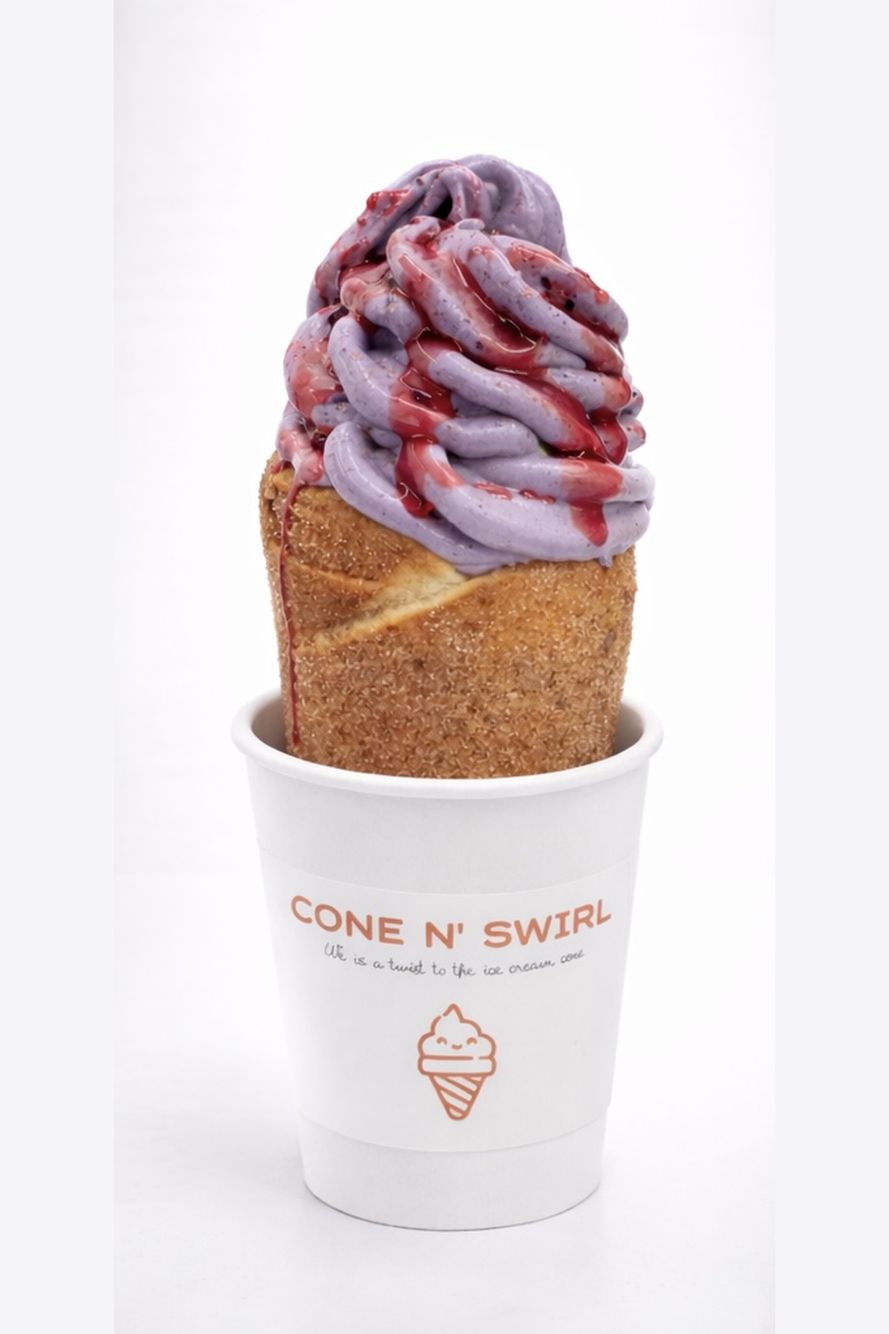
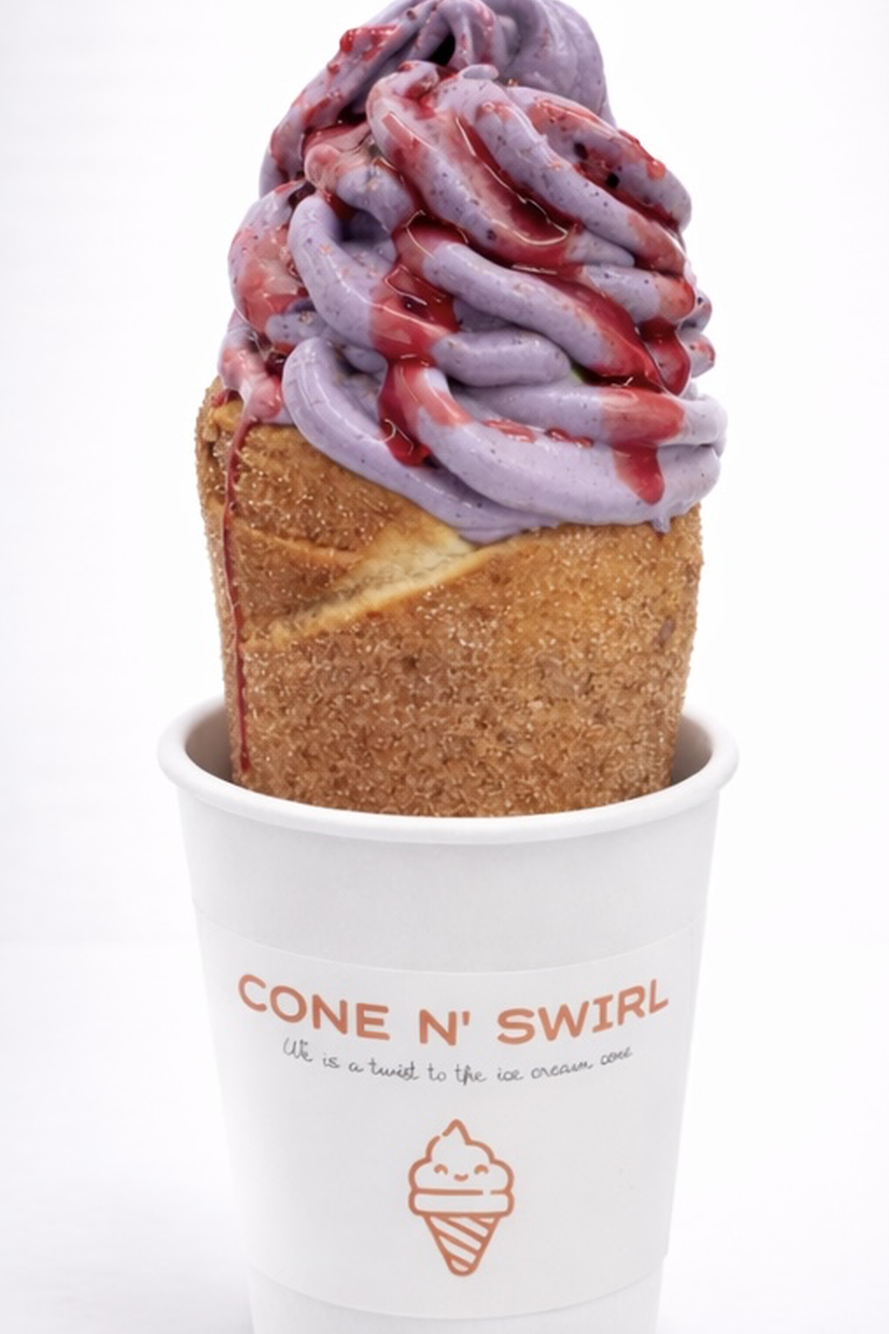
Gallery: purpletop cover-crop to match visual scale; cache-bust URL
Made-with: Cursor

Changed region(s): [[0.1875, 0.0, 0.8438, 0.9688], [0.3438, 0.875, 0.375, 0.9062]]

diff --git a/index.html b/index.html
@@ -1243,7 +1243,7 @@ body {
 }
 </style></head>
   <body>
-    <div id="root"><div class="min-h-screen bg-surface"><header class="sticky top-0 z-50 border-b border-ink/10 bg-surface"><div class="mx-auto flex max-w-5xl items-center justify-between gap-4 px-5 py-4 lg:px-8"><a href="#" class="flex shrink-0 items-center focus:outline-none focus-visible:ring-2 focus-visible:ring-primary focus-visible:ring-offset-2" aria-label="CONE N&#39; SWIRL — Home"><img alt="CONE N&#39; SWIRL" class="h-10 w-auto max-w-[min(100%,200px)] object-contain object-left sm:h-12 sm:max-w-[240px]" src="./images/SwirlyOrange.jpeg"></a><nav class="hidden items-center gap-6 lg:flex" aria-label="Main"><a href="#about" class="text-sm font-semibold uppercase tracking-wide text-ink/80 transition-colors hover:text-primary">About</a><a href="#menu" class="text-sm font-semibold uppercase tracking-wide text-ink/80 transition-colors hover:text-primary">Menu</a><a href="#schedule" class="text-sm font-semibold uppercase tracking-wide text-ink/80 transition-colors hover:text-primary">Find us</a><a href="#gallery" class="text-sm font-semibold uppercase tracking-wide text-ink/80 transition-colors hover:text-primary">Gallery</a><a href="#contact" class="text-sm font-semibold uppercase tracking-wide text-ink/80 transition-colors hover:text-primary">Contact</a></nav><div class="hidden items-center gap-3 lg:flex"><a href="https://www.instagram.com/conenswirl/" target="_blank" rel="noopener noreferrer" class="inline-flex text-primary transition hover:text-ink" aria-label="CONE N&#39; SWIRL on Instagram (@conenswirl)"><svg class="h-6 w-6" viewBox="0 0 24 24" aria-hidden="true" fill="currentColor"><path d="M12 2.163c3.204 0 3.584.012 4.85.07 1.252.058 2.083.242 2.633.516a5.275 5.275 0 011.92 1.247 5.25 5.25 0 011.247 1.92c.274.55.458 1.38.516 2.633.058 1.266.07 1.646.07 4.85s-.012 3.584-.07 4.85c-.058 1.252-.242 2.083-.516 2.633a5.275 5.275 0 01-1.247 1.92 5.25 5.25 0 01-1.92 1.247c-.55.274-1.38.458-2.633.516-1.266.058-1.646.07-4.85.07s-3.584-.012-4.85-.07c-1.252-.058-2.083-.242-2.633-.516a5.275 5.275 0 01-1.92-1.247 5.25 5.25 0 01-1.247-1.92c-.274-.55-.458-1.38-.516-2.633-.058-1.266-.07-1.646-.07-4.85s.012-3.584.07-4.85c.058-1.252.242-2.083.516-2.633a5.275 5.275 0 011.247-1.92 5.25 5.25 0 011.92-1.247c.55-.274 1.38-.458 2.633-.516 1.266-.058 1.646-.07 4.85-.07zM12 5.838a6.162 6.162 0 100 12.324A6.162 6.162 0 0012 5.838zm0 10a4 4 0 110-8 4 4 0 010 8zm6.406-11.845a1.44 1.44 0 100 2.881 1.44 1.44 0 000-2.881z"></path></svg></a><a href="#contact" class="border-2 border-primary bg-primary px-4 py-2 text-xs font-bold uppercase tracking-widest text-surface transition hover:bg-ink hover:border-ink">Book us</a></div><button type="button" class="inline-flex h-10 w-10 items-center justify-center border border-ink/20 lg:hidden" aria-expanded="false" aria-label="Toggle menu"><span class="sr-only">Menu</span><svg class="h-5 w-5 text-ink" fill="none" viewBox="0 0 24 24" stroke="currentColor" aria-hidden="true"><path stroke-linecap="round" stroke-linejoin="round" stroke-width="2" d="M4 6h16M4 12h16M4 18h16"></path></svg></button></div></header><main><section class="hero-with-background px-5 py-16 text-center sm:py-20 lg:py-28"><div class="hero-content mx-auto max-w-3xl"><img alt="" class="mx-auto h-20 w-auto max-w-full object-contain sm:h-24 md:h-28" src="./images/SwirlyWhite.png"><h1 class="mt-8 font-display text-4xl font-bold uppercase leading-tight tracking-tight text-surface sm:text-5xl lg:text-6xl">We put a twist to the ice cream cone</h1><p class="mx-auto mt-6 max-w-xl text-base leading-relaxed text-surface sm:text-lg">Soft serve, house-made toppings, and cones with personality. Find us curbside—we're here for the sweet stuff.</p><div class="mt-10 flex flex-wrap justify-center gap-3"><a href="#menu" class="inline-flex border-2 border-surface bg-surface px-8 py-3 text-xs font-bold uppercase tracking-widest text-ink transition">See the menu</a><a href="#contact" class="inline-flex border-2 border-surface bg-transparent px-8 py-3 text-xs font-bold uppercase tracking-widest text-surface transition">Catering &amp; events</a></div><p class="mt-8 text-sm font-semibold text-surface"><a href="https://www.instagram.com/conenswirl/" target="_blank" rel="noopener noreferrer" class="font-semibold text-surface underline underline-offset-4 hover:underline">Follow @conenswirl on Instagram</a> for where we're parked and what's on special.</p></div></section><section id="about" class="scroll-mt-20 border-b border-ink/10 bg-surface px-5 py-16 sm:py-24 lg:px-8"><div class="mx-auto max-w-3xl text-center"><h2 class="font-display text-3xl font-bold uppercase tracking-tight text-ink sm:text-4xl lg:text-5xl">Soft serve with a modern twist</h2><p class="mt-8 text-lg leading-relaxed text-ink/80">We're a local ice cream truck crew obsessed with doing things the right way—real dairy, seasonal flavors, and a window that moves fast without cutting corners. Good treats, good crew, good vibes on the block.</p></div></section><section id="menu" class="scroll-mt-20 border-b border-ink/10 bg-surface px-5 py-16 sm:py-24 lg:px-8"><div class="mx-auto max-w-6xl"><div class="mx-auto max-w-3xl text-center"><p class="font-display text-xs font-semibold uppercase tracking-[0.35em] text-primary">Menu</p><h2 class="mt-3 font-display text-3xl font-bold uppercase tracking-tight text-ink sm:text-4xl">Build your perfect swirl</h2><p class="mt-6 text-lg leading-relaxed text-ink/85">With our unique cones, fillings, blends, Stick ’Ems, and drizzles, your choices are endless—you design every cone and cup.</p></div><figure class="mt-12 overflow-hidden rounded-lg border border-ink/15 bg-surface shadow-sm"><img alt="CONE N&#39; SWIRL full menu: Cone N&#39; Swirl $9.99, Cup N&#39; Swirl $6.99, Cone only $6.99, plus cone types, fillings, premium blends, free blends, Stick ’Ems, drizzles, and bottled water $1.50." class="mx-auto w-full max-w-4xl object-contain" loading="lazy" src="./images/ConeNSwirl_menu.png"><figcaption class="sr-only">Official menu graphic with prices and all customization options.</figcaption></figure><div class="mt-14 grid gap-4 md:grid-cols-3"><article class="flex flex-col border-2 border-ink/15 bg-surface p-5 sm:p-6"><div class="flex flex-wrap items-baseline justify-between gap-2 border-b border-ink/10 pb-3"><h3 class="font-display text-lg font-bold uppercase leading-tight tracking-wide text-ink">Cone N' Swirl</h3><p class="font-display text-xl font-bold text-primary">$9.99</p></div><p class="mt-4 text-xs font-semibold uppercase tracking-wider text-ink">How it works</p><p class="mt-2 text-sm leading-relaxed text-ink/85">Select cone → Select filling → Swirl base (chocolate or vanilla) → Free blend</p><p class="mt-auto border-t border-ink/10 pt-4 text-xs text-ink/70"><span class="font-semibold uppercase tracking-wide text-ink">Add-ons: </span>Extra blend, drizzle, Stick ’Ems</p></article><article class="flex flex-col border-2 border-ink/15 bg-surface p-5 sm:p-6"><div class="flex flex-wrap items-baseline justify-between gap-2 border-b border-ink/10 pb-3"><h3 class="font-display text-lg font-bold uppercase leading-tight tracking-wide text-ink">Cup N' Swirl</h3><p class="font-display text-xl font-bold text-primary">$6.99</p></div><p class="mt-4 text-xs font-semibold uppercase tracking-wider text-ink">How it works</p><p class="mt-2 text-sm leading-relaxed text-ink/85">Swirl base (chocolate or vanilla) → Free blend</p><p class="mt-auto border-t border-ink/10 pt-4 text-xs text-ink/70"><span class="font-semibold uppercase tracking-wide text-ink">Add-ons: </span>Extra blend, drizzle, Stick ’Ems, filling</p></article><article class="flex flex-col border-2 border-ink/15 bg-surface p-5 sm:p-6"><div class="flex flex-wrap items-baseline justify-between gap-2 border-b border-ink/10 pb-3"><h3 class="font-display text-lg font-bold uppercase leading-tight tracking-wide text-ink">Cone only (no ice cream)</h3><p class="font-display text-xl font-bold text-primary">$6.99</p></div><p class="mt-4 text-xs font-semibold uppercase tracking-wider text-ink">How it works</p><p class="mt-2 text-sm leading-relaxed text-ink/85">Select cone → Select filling</p><p class="mt-auto border-t border-ink/10 pt-4 text-xs text-ink/70"><span class="font-semibold uppercase tracking-wide text-ink">Add-ons: </span>Drizzle</p></article></div><div class="mt-14"><h3 class="text-center font-display text-2xl font-bold uppercase tracking-tight text-ink">Mix-ins &amp; options</h3><p class="mx-auto mt-3 max-w-2xl text-center text-sm text-ink/75">Everything below is how you customize your Cone N' Swirl, Cup N' Swirl, or cone-only order.</p><div class="mt-10 grid gap-8 sm:grid-cols-2 lg:grid-cols-3"><div><h4 class="border-b-2 border-primary pb-2 font-display text-sm font-bold uppercase tracking-widest text-ink">Cone</h4><ul class="mt-3 space-y-1.5 text-sm text-ink/85"><li class="flex gap-2"><span class="text-primary" aria-hidden="true">•</span>Cinnamon sugar</li><li class="flex gap-2"><span class="text-primary" aria-hidden="true">•</span>Oreo</li><li class="flex gap-2"><span class="text-primary" aria-hidden="true">•</span>Graham cracker</li><li class="flex gap-2"><span class="text-primary" aria-hidden="true">•</span>Plain</li></ul></div><div><h4 class="border-b-2 border-primary pb-2 font-display text-sm font-bold uppercase tracking-widest text-ink">Filling</h4><ul class="mt-3 space-y-1.5 text-sm text-ink/85"><li class="flex gap-2"><span class="text-primary" aria-hidden="true">•</span>Nutella</li><li class="flex gap-2"><span class="text-primary" aria-hidden="true">•</span>Cookie butter</li><li class="flex gap-2"><span class="text-primary" aria-hidden="true">•</span>Peanut butter</li><li class="flex gap-2"><span class="text-primary" aria-hidden="true">•</span>No filling</li></ul></div><div><h4 class="border-b-2 border-primary pb-2 font-display text-sm font-bold uppercase tracking-widest text-ink">Premium blends</h4><ul class="mt-3 space-y-1.5 text-sm text-ink/85"><li class="flex gap-2"><span class="text-primary" aria-hidden="true">•</span>Brownie</li><li class="flex gap-2"><span class="text-primary" aria-hidden="true">•</span>Strawberry</li><li class="flex gap-2"><span class="text-primary" aria-hidden="true">•</span>Blueberry</li><li class="flex gap-2"><span class="text-primary" aria-hidden="true">•</span>Mango</li><li class="flex gap-2"><span class="text-primary" aria-hidden="true">•</span>Raspberry</li><li class="flex gap-2"><span class="text-primary" aria-hidden="true">•</span>Pineapple</li></ul></div><div><h4 class="border-b-2 border-primary pb-2 font-display text-sm font-bold uppercase tracking-widest text-ink">Blends (1 free)</h4><ul class="mt-3 space-y-1.5 text-sm text-ink/85"><li class="flex gap-2"><span class="text-primary" aria-hidden="true">•</span>Coffee</li><li class="flex gap-2"><span class="text-primary" aria-hidden="true">•</span>Mazapan</li><li class="flex gap-2"><span class="text-primary" aria-hidden="true">•</span>Oreo</li><li class="flex gap-2"><span class="text-primary" aria-hidden="true">•</span>Cookie dough</li><li class="flex gap-2"><span class="text-primary" aria-hidden="true">•</span>Nutter Butter</li><li class="flex gap-2"><span class="text-primary" aria-hidden="true">•</span>Pecans</li><li class="flex gap-2"><span class="text-primary" aria-hidden="true">•</span>Walnuts</li><li class="flex gap-2"><span class="text-primary" aria-hidden="true">•</span>Almonds</li><li class="flex gap-2"><span class="text-primary" aria-hidden="true">•</span>Reese’s</li><li class="flex gap-2"><span class="text-primary" aria-hidden="true">•</span>Sprinkles</li><li class="flex gap-2"><span class="text-primary" aria-hidden="true">•</span>Pretzels</li><li class="flex gap-2"><span class="text-primary" aria-hidden="true">•</span>Graham cracker</li></ul></div><div><h4 class="border-b-2 border-primary pb-2 font-display text-sm font-bold uppercase tracking-widest text-ink">Stick ’Ems</h4><ul class="mt-3 space-y-1.5 text-sm text-ink/85"><li class="flex gap-2"><span class="text-primary" aria-hidden="true">•</span>Oreo</li><li class="flex gap-2"><span class="text-primary" aria-hidden="true">•</span>Nutter Butter</li><li class="flex gap-2"><span class="text-primary" aria-hidden="true">•</span>Pretzel rod</li><li class="flex gap-2"><span class="text-primary" aria-hidden="true">•</span>Reese’s</li><li class="flex gap-2"><span class="text-primary" aria-hidden="true">•</span>Graham cracker</li><li class="flex gap-2"><span class="text-primary" aria-hidden="true">•</span>KitKat</li><li class="flex gap-2"><span class="text-primary" aria-hidden="true">•</span>Nilla Wafers</li></ul></div><div><h4 class="border-b-2 border-primary pb-2 font-display text-sm font-bold uppercase tracking-widest text-ink">Drizzles</h4><ul class="mt-3 space-y-1.5 text-sm text-ink/85"><li class="flex gap-2"><span class="text-primary" aria-hidden="true">•</span>Chocolate</li><li class="flex gap-2"><span class="text-primary" aria-hidden="true">•</span>Strawberry</li><li class="flex gap-2"><span class="text-primary" aria-hidden="true">•</span>Salted caramel</li><li class="flex gap-2"><span class="text-primary" aria-hidden="true">•</span>Caramel</li></ul></div></div></div></div></section><section id="schedule" class="scroll-mt-20 border-b border-ink/10 bg-surface px-5 py-16 sm:py-24 lg:px-8"><div class="mx-auto max-w-3xl text-center"><p class="font-display text-xs font-semibold uppercase tracking-[0.35em] text-ink">Find us</p><h2 class="mt-3 font-display text-3xl font-bold uppercase tracking-tight text-ink sm:text-4xl">This week's stops</h2><p class="mt-4 text-ink/75">Schedules change with weather and events—follow <a href="https://www.instagram.com/conenswirl/" target="_blank" rel="noopener noreferrer" class="font-semibold text-primary underline-offset-4 hover:underline">@conenswirl</a> for rain dates, pop-ups, and this week's stops.</p></div><div class="mx-auto mt-12 grid max-w-5xl grid-cols-1 items-center gap-8 lg:grid-cols-2 lg:gap-12"><div class="flex w-full justify-center"><div class="w-full max-w-xl overflow-hidden rounded-lg border border-ink/15 lg:max-w-none"><img src="./images/food-truck-serving.jpg" alt="CONE N&#39; SWIRL food truck serving at the window" class="aspect-[4/3] w-full object-cover" loading="lazy" decoding="async" width="800" height="600"></div></div><div class="overflow-hidden border border-ink/15"><table class="w-full text-left text-sm"><thead><tr class="border-b border-ink/15 bg-ink/5"><th class="px-4 py-3 font-display text-xs font-semibold uppercase tracking-wider text-ink sm:px-5">Day</th><th class="px-4 py-3 font-display text-xs font-semibold uppercase tracking-wider text-ink sm:px-5">Location</th><th class="hidden px-4 py-3 font-display text-xs font-semibold uppercase tracking-wider text-ink sm:table-cell sm:px-5">Hours</th></tr></thead><tbody><tr class="border-b border-ink/10 last:border-0"><td class="px-4 py-4 font-semibold text-primary sm:px-5">Tue</td><td class="px-4 py-4 text-ink sm:px-5">Copper Canyon<span class="mt-1 block text-ink/60 sm:hidden">5pm – 8pm</span></td><td class="hidden px-4 py-4 text-ink/70 sm:table-cell sm:px-5">5pm – 8pm</td></tr><tr class="border-b border-ink/10 last:border-0"><td class="px-4 py-4 font-semibold text-primary sm:px-5">Wed</td><td class="px-4 py-4 text-ink sm:px-5">Ranches at Creekside<span class="mt-1 block text-ink/60 sm:hidden">5pm – 8pm</span></td><td class="hidden px-4 py-4 text-ink/70 sm:table-cell sm:px-5">5pm – 8pm</td></tr><tr class="border-b border-ink/10 last:border-0"><td class="px-4 py-4 font-semibold text-primary sm:px-5">Thu</td><td class="px-4 py-4 text-ink sm:px-5">Whisper Falls<span class="mt-1 block text-ink/60 sm:hidden">5pm – 8pm</span></td><td class="hidden px-4 py-4 text-ink/70 sm:table-cell sm:px-5">5pm – 8pm</td></tr><tr class="border-b border-ink/10 last:border-0"><td class="px-4 py-4 font-semibold text-primary sm:px-5">Fri</td><td class="px-4 py-4 text-ink sm:px-5">Langdon Community<span class="mt-1 block text-ink/60 sm:hidden">5pm – 8pm</span></td><td class="hidden px-4 py-4 text-ink/70 sm:table-cell sm:px-5">5pm – 8pm</td></tr><tr class="border-b border-ink/10 last:border-0"><td class="px-4 py-4 font-semibold text-primary sm:px-5">Sat</td><td class="px-4 py-4 text-ink sm:px-5">Canyon Crest<span class="mt-1 block text-ink/60 sm:hidden">5pm – 8pm</span></td><td class="hidden px-4 py-4 text-ink/70 sm:table-cell sm:px-5">5pm – 8pm</td></tr></tbody></table></div></div></section><section class="border-b border-ink/10 bg-surface"><div id="gallery" class="scroll-mt-20 px-5 py-16 sm:py-20 lg:px-8"><div class="mx-auto max-w-5xl"><h2 class="text-center font-display text-3xl font-bold uppercase tracking-tight text-ink sm:text-4xl">Gallery</h2><p class="mx-auto mt-4 max-w-xl text-center text-ink/75">Fresh photos live on <a href="https://www.instagram.com/conenswirl/" target="_blank" rel="noopener noreferrer" class="font-semibold text-primary underline-offset-4 hover:underline">@conenswirl</a>—follow for pop-ups, specials, and behind the window.</p><div class="gallery-grid mt-10 grid grid-cols-2 gap-2 sm:grid-cols-3 sm:gap-3 md:gap-4"><div class="overflow-hidden rounded-lg border border-ink/15 bg-surface"><img src="./images/plain.png" alt="Plain cone with soft serve" class="w-full h-auto" loading="lazy" decoding="async"></div><div class="overflow-hidden rounded-lg border border-ink/15 bg-surface"><img src="./images/oreocone.png" alt="Oreo cone with ice cream" class="w-full h-auto" loading="lazy" decoding="async"></div><div class="overflow-hidden rounded-lg border border-ink/15 bg-surface"><img src="./images/purpletop.png" alt="Purple topped soft serve cone" class="w-full h-auto" loading="lazy" decoding="async"></div><div class="overflow-hidden rounded-lg border border-ink/15 bg-surface"><img src="./images/stickems.png" alt="Soft serve with Stick ’Ems" class="w-full h-auto" loading="lazy" decoding="async"></div><div class="overflow-hidden rounded-lg border border-ink/15 bg-surface"><img src="./images/pinktop.png" alt="Pink topped soft serve cone" class="w-full h-auto" loading="lazy" decoding="async"></div><div class="overflow-hidden rounded-lg border border-ink/15 bg-surface"><img src="./images/yellowtop.png" alt="Yellow topped soft serve cone" class="w-full h-auto" loading="lazy" decoding="async"></div></div></div></div></section><section id="contact" class="scroll-mt-20 border-t border-ink/10 bg-primary px-5 py-16 sm:py-24 lg:px-8"><div class="mx-auto max-w-5xl"><div class="grid gap-12 lg:grid-cols-2 lg:gap-16 lg:items-start"><div class="mx-auto max-w-xl text-center lg:mx-0 lg:text-left"><h2 class="font-display text-3xl font-bold uppercase tracking-tight text-surface sm:text-4xl">Catering &amp; events</h2><p class="mt-6 text-lg leading-relaxed text-ink sm:text-xl">Want to sweeten your event? Book the truck for birthdays, office treats, and weddings—we bring the swirl, toppings, and smiles. Tell us your head count and we'll handle the rest.</p><a href="mailto:conenswirl@gmail.com?subject=Catering%20%26%20events%20quote" class="mt-8 inline-flex border-2 border-ink bg-ink px-8 py-3 text-xs font-bold uppercase tracking-widest text-surface transition hover:bg-surface hover:text-ink">Request a quote</a></div><div class="rounded-lg border border-ink/15 bg-surface p-6 sm:p-8 lg:p-10"><div class="text-center lg:text-left"><p class="font-display text-xs font-semibold uppercase tracking-[0.35em] text-ink">Contact</p><h2 class="mt-3 font-display text-3xl font-bold uppercase tracking-tight text-ink sm:text-4xl">Get in touch</h2><p class="mt-4 text-ink/75">Questions about the truck, pricing, or a date? Send a note—we usually reply within two business days. For same-day locations and specials, check <a href="https://www.instagram.com/conenswirl/" target="_blank" rel="noopener noreferrer" class="font-semibold text-primary underline-offset-4 hover:underline">@conenswirl</a> on Instagram.</p></div><dl class="mt-10 space-y-6 text-sm"><div><dt class="font-display text-xs font-semibold uppercase tracking-widest text-ink">Email</dt><dd class="mt-2"><a href="mailto:conenswirl@gmail.com" class="font-semibold text-primary underline-offset-4 hover:underline">conenswirl@gmail.com</a></dd></div><div><dt class="font-display text-xs font-semibold uppercase tracking-widest text-ink">Phone</dt><dd class="mt-2"><a href="tel:+19562860601" class="font-semibold text-primary underline-offset-4 hover:underline">(956) 286-0601</a></dd></div><div><dt class="font-display text-xs font-semibold uppercase tracking-widest text-ink">Instagram</dt><dd class="mt-2"><a href="https://www.instagram.com/conenswirl/" target="_blank" rel="noopener noreferrer" class="font-semibold text-primary underline-offset-4 hover:underline">@conenswirl</a><p class="mt-1 text-ink/70">Daily stops, menu updates, and behind-the-window content.</p></dd></div></dl></div></div></div></section></main><footer class="border-t border-ink/10 bg-ink py-10 text-surface"><div class="mx-auto flex max-w-5xl flex-col gap-6 px-5 sm:flex-row sm:items-center sm:justify-between lg:px-8"><div><p class="font-display text-lg font-semibold uppercase tracking-wide">CONE N' SWIRL</p><p class="mt-1 text-sm text-surface/65">© 2026 CONE N' SWIRL. All rights reserved.</p></div><div class="flex flex-wrap items-center gap-6 text-sm font-semibold uppercase tracking-wide text-surface/80"><a href="#menu" class="hover:text-surface">Menu</a><a href="#schedule" class="hover:text-surface">Find us</a><a href="#gallery" class="hover:text-surface">Gallery</a><a href="#contact" class="hover:text-surface">Contact</a><a href="https://www.instagram.com/conenswirl/" target="_blank" rel="noopener noreferrer" class="inline-flex items-center gap-2 hover:text-surface" aria-label="CONE N&#39; SWIRL on Instagram"><svg class="h-5 w-5" viewBox="0 0 24 24" aria-hidden="true" fill="currentColor"><path d="M12 2.163c3.204 0 3.584.012 4.85.07 1.252.058 2.083.242 2.633.516a5.275 5.275 0 011.92 1.247 5.25 5.25 0 011.247 1.92c.274.55.458 1.38.516 2.633.058 1.266.07 1.646.07 4.85s-.012 3.584-.07 4.85c-.058 1.252-.242 2.083-.516 2.633a5.275 5.275 0 01-1.247 1.92 5.25 5.25 0 01-1.92 1.247c-.55.274-1.38.458-2.633.516-1.266.058-1.646.07-4.85.07s-3.584-.012-4.85-.07c-1.252-.058-2.083-.242-2.633-.516a5.275 5.275 0 01-1.92-1.247 5.25 5.25 0 01-1.247-1.92c-.274-.55-.458-1.38-.516-2.633-.058-1.266-.07-1.646-.07-4.85s.012-3.584.07-4.85c.058-1.252.242-2.083.516-2.633a5.275 5.275 0 011.247-1.92 5.25 5.25 0 011.92-1.247c.55-.274 1.38-.458 2.633-.516 1.266-.058 1.646-.07 4.85-.07zM12 5.838a6.162 6.162 0 100 12.324A6.162 6.162 0 0012 5.838zm0 10a4 4 0 110-8 4 4 0 010 8zm6.406-11.845a1.44 1.44 0 100 2.881 1.44 1.44 0 000-2.881z"></path></svg>Instagram</a></div></div></footer></div></div>
+    <div id="root"><div class="min-h-screen bg-surface"><header class="sticky top-0 z-50 border-b border-ink/10 bg-surface"><div class="mx-auto flex max-w-5xl items-center justify-between gap-4 px-5 py-4 lg:px-8"><a href="#" class="flex shrink-0 items-center focus:outline-none focus-visible:ring-2 focus-visible:ring-primary focus-visible:ring-offset-2" aria-label="CONE N&#39; SWIRL — Home"><img alt="CONE N&#39; SWIRL" class="h-10 w-auto max-w-[min(100%,200px)] object-contain object-left sm:h-12 sm:max-w-[240px]" src="./images/SwirlyOrange.jpeg"></a><nav class="hidden items-center gap-6 lg:flex" aria-label="Main"><a href="#about" class="text-sm font-semibold uppercase tracking-wide text-ink/80 transition-colors hover:text-primary">About</a><a href="#menu" class="text-sm font-semibold uppercase tracking-wide text-ink/80 transition-colors hover:text-primary">Menu</a><a href="#schedule" class="text-sm font-semibold uppercase tracking-wide text-ink/80 transition-colors hover:text-primary">Find us</a><a href="#gallery" class="text-sm font-semibold uppercase tracking-wide text-ink/80 transition-colors hover:text-primary">Gallery</a><a href="#contact" class="text-sm font-semibold uppercase tracking-wide text-ink/80 transition-colors hover:text-primary">Contact</a></nav><div class="hidden items-center gap-3 lg:flex"><a href="https://www.instagram.com/conenswirl/" target="_blank" rel="noopener noreferrer" class="inline-flex text-primary transition hover:text-ink" aria-label="CONE N&#39; SWIRL on Instagram (@conenswirl)"><svg class="h-6 w-6" viewBox="0 0 24 24" aria-hidden="true" fill="currentColor"><path d="M12 2.163c3.204 0 3.584.012 4.85.07 1.252.058 2.083.242 2.633.516a5.275 5.275 0 011.92 1.247 5.25 5.25 0 011.247 1.92c.274.55.458 1.38.516 2.633.058 1.266.07 1.646.07 4.85s-.012 3.584-.07 4.85c-.058 1.252-.242 2.083-.516 2.633a5.275 5.275 0 01-1.247 1.92 5.25 5.25 0 01-1.92 1.247c-.55.274-1.38.458-2.633.516-1.266.058-1.646.07-4.85.07s-3.584-.012-4.85-.07c-1.252-.058-2.083-.242-2.633-.516a5.275 5.275 0 01-1.92-1.247 5.25 5.25 0 01-1.247-1.92c-.274-.55-.458-1.38-.516-2.633-.058-1.266-.07-1.646-.07-4.85s.012-3.584.07-4.85c.058-1.252.242-2.083.516-2.633a5.275 5.275 0 011.247-1.92 5.25 5.25 0 011.92-1.247c.55-.274 1.38-.458 2.633-.516 1.266-.058 1.646-.07 4.85-.07zM12 5.838a6.162 6.162 0 100 12.324A6.162 6.162 0 0012 5.838zm0 10a4 4 0 110-8 4 4 0 010 8zm6.406-11.845a1.44 1.44 0 100 2.881 1.44 1.44 0 000-2.881z"></path></svg></a><a href="#contact" class="border-2 border-primary bg-primary px-4 py-2 text-xs font-bold uppercase tracking-widest text-surface transition hover:bg-ink hover:border-ink">Book us</a></div><button type="button" class="inline-flex h-10 w-10 items-center justify-center border border-ink/20 lg:hidden" aria-expanded="false" aria-label="Toggle menu"><span class="sr-only">Menu</span><svg class="h-5 w-5 text-ink" fill="none" viewBox="0 0 24 24" stroke="currentColor" aria-hidden="true"><path stroke-linecap="round" stroke-linejoin="round" stroke-width="2" d="M4 6h16M4 12h16M4 18h16"></path></svg></button></div></header><main><section class="hero-with-background px-5 py-16 text-center sm:py-20 lg:py-28"><div class="hero-content mx-auto max-w-3xl"><img alt="" class="mx-auto h-20 w-auto max-w-full object-contain sm:h-24 md:h-28" src="./images/SwirlyWhite.png"><h1 class="mt-8 font-display text-4xl font-bold uppercase leading-tight tracking-tight text-surface sm:text-5xl lg:text-6xl">We put a twist to the ice cream cone</h1><p class="mx-auto mt-6 max-w-xl text-base leading-relaxed text-surface sm:text-lg">Soft serve, house-made toppings, and cones with personality. Find us curbside—we're here for the sweet stuff.</p><div class="mt-10 flex flex-wrap justify-center gap-3"><a href="#menu" class="inline-flex border-2 border-surface bg-surface px-8 py-3 text-xs font-bold uppercase tracking-widest text-ink transition">See the menu</a><a href="#contact" class="inline-flex border-2 border-surface bg-transparent px-8 py-3 text-xs font-bold uppercase tracking-widest text-surface transition">Catering &amp; events</a></div><p class="mt-8 text-sm font-semibold text-surface"><a href="https://www.instagram.com/conenswirl/" target="_blank" rel="noopener noreferrer" class="font-semibold text-surface underline underline-offset-4 hover:underline">Follow @conenswirl on Instagram</a> for where we're parked and what's on special.</p></div></section><section id="about" class="scroll-mt-20 border-b border-ink/10 bg-surface px-5 py-16 sm:py-24 lg:px-8"><div class="mx-auto max-w-3xl text-center"><h2 class="font-display text-3xl font-bold uppercase tracking-tight text-ink sm:text-4xl lg:text-5xl">Soft serve with a modern twist</h2><p class="mt-8 text-lg leading-relaxed text-ink/80">We're a local ice cream truck crew obsessed with doing things the right way—real dairy, seasonal flavors, and a window that moves fast without cutting corners. Good treats, good crew, good vibes on the block.</p></div></section><section id="menu" class="scroll-mt-20 border-b border-ink/10 bg-surface px-5 py-16 sm:py-24 lg:px-8"><div class="mx-auto max-w-6xl"><div class="mx-auto max-w-3xl text-center"><p class="font-display text-xs font-semibold uppercase tracking-[0.35em] text-primary">Menu</p><h2 class="mt-3 font-display text-3xl font-bold uppercase tracking-tight text-ink sm:text-4xl">Build your perfect swirl</h2><p class="mt-6 text-lg leading-relaxed text-ink/85">With our unique cones, fillings, blends, Stick ’Ems, and drizzles, your choices are endless—you design every cone and cup.</p></div><figure class="mt-12 overflow-hidden rounded-lg border border-ink/15 bg-surface shadow-sm"><img alt="CONE N&#39; SWIRL full menu: Cone N&#39; Swirl $9.99, Cup N&#39; Swirl $6.99, Cone only $6.99, plus cone types, fillings, premium blends, free blends, Stick ’Ems, drizzles, and bottled water $1.50." class="mx-auto w-full max-w-4xl object-contain" loading="lazy" src="./images/ConeNSwirl_menu.png"><figcaption class="sr-only">Official menu graphic with prices and all customization options.</figcaption></figure><div class="mt-14 grid gap-4 md:grid-cols-3"><article class="flex flex-col border-2 border-ink/15 bg-surface p-5 sm:p-6"><div class="flex flex-wrap items-baseline justify-between gap-2 border-b border-ink/10 pb-3"><h3 class="font-display text-lg font-bold uppercase leading-tight tracking-wide text-ink">Cone N' Swirl</h3><p class="font-display text-xl font-bold text-primary">$9.99</p></div><p class="mt-4 text-xs font-semibold uppercase tracking-wider text-ink">How it works</p><p class="mt-2 text-sm leading-relaxed text-ink/85">Select cone → Select filling → Swirl base (chocolate or vanilla) → Free blend</p><p class="mt-auto border-t border-ink/10 pt-4 text-xs text-ink/70"><span class="font-semibold uppercase tracking-wide text-ink">Add-ons: </span>Extra blend, drizzle, Stick ’Ems</p></article><article class="flex flex-col border-2 border-ink/15 bg-surface p-5 sm:p-6"><div class="flex flex-wrap items-baseline justify-between gap-2 border-b border-ink/10 pb-3"><h3 class="font-display text-lg font-bold uppercase leading-tight tracking-wide text-ink">Cup N' Swirl</h3><p class="font-display text-xl font-bold text-primary">$6.99</p></div><p class="mt-4 text-xs font-semibold uppercase tracking-wider text-ink">How it works</p><p class="mt-2 text-sm leading-relaxed text-ink/85">Swirl base (chocolate or vanilla) → Free blend</p><p class="mt-auto border-t border-ink/10 pt-4 text-xs text-ink/70"><span class="font-semibold uppercase tracking-wide text-ink">Add-ons: </span>Extra blend, drizzle, Stick ’Ems, filling</p></article><article class="flex flex-col border-2 border-ink/15 bg-surface p-5 sm:p-6"><div class="flex flex-wrap items-baseline justify-between gap-2 border-b border-ink/10 pb-3"><h3 class="font-display text-lg font-bold uppercase leading-tight tracking-wide text-ink">Cone only (no ice cream)</h3><p class="font-display text-xl font-bold text-primary">$6.99</p></div><p class="mt-4 text-xs font-semibold uppercase tracking-wider text-ink">How it works</p><p class="mt-2 text-sm leading-relaxed text-ink/85">Select cone → Select filling</p><p class="mt-auto border-t border-ink/10 pt-4 text-xs text-ink/70"><span class="font-semibold uppercase tracking-wide text-ink">Add-ons: </span>Drizzle</p></article></div><div class="mt-14"><h3 class="text-center font-display text-2xl font-bold uppercase tracking-tight text-ink">Mix-ins &amp; options</h3><p class="mx-auto mt-3 max-w-2xl text-center text-sm text-ink/75">Everything below is how you customize your Cone N' Swirl, Cup N' Swirl, or cone-only order.</p><div class="mt-10 grid gap-8 sm:grid-cols-2 lg:grid-cols-3"><div><h4 class="border-b-2 border-primary pb-2 font-display text-sm font-bold uppercase tracking-widest text-ink">Cone</h4><ul class="mt-3 space-y-1.5 text-sm text-ink/85"><li class="flex gap-2"><span class="text-primary" aria-hidden="true">•</span>Cinnamon sugar</li><li class="flex gap-2"><span class="text-primary" aria-hidden="true">•</span>Oreo</li><li class="flex gap-2"><span class="text-primary" aria-hidden="true">•</span>Graham cracker</li><li class="flex gap-2"><span class="text-primary" aria-hidden="true">•</span>Plain</li></ul></div><div><h4 class="border-b-2 border-primary pb-2 font-display text-sm font-bold uppercase tracking-widest text-ink">Filling</h4><ul class="mt-3 space-y-1.5 text-sm text-ink/85"><li class="flex gap-2"><span class="text-primary" aria-hidden="true">•</span>Nutella</li><li class="flex gap-2"><span class="text-primary" aria-hidden="true">•</span>Cookie butter</li><li class="flex gap-2"><span class="text-primary" aria-hidden="true">•</span>Peanut butter</li><li class="flex gap-2"><span class="text-primary" aria-hidden="true">•</span>No filling</li></ul></div><div><h4 class="border-b-2 border-primary pb-2 font-display text-sm font-bold uppercase tracking-widest text-ink">Premium blends</h4><ul class="mt-3 space-y-1.5 text-sm text-ink/85"><li class="flex gap-2"><span class="text-primary" aria-hidden="true">•</span>Brownie</li><li class="flex gap-2"><span class="text-primary" aria-hidden="true">•</span>Strawberry</li><li class="flex gap-2"><span class="text-primary" aria-hidden="true">•</span>Blueberry</li><li class="flex gap-2"><span class="text-primary" aria-hidden="true">•</span>Mango</li><li class="flex gap-2"><span class="text-primary" aria-hidden="true">•</span>Raspberry</li><li class="flex gap-2"><span class="text-primary" aria-hidden="true">•</span>Pineapple</li></ul></div><div><h4 class="border-b-2 border-primary pb-2 font-display text-sm font-bold uppercase tracking-widest text-ink">Blends (1 free)</h4><ul class="mt-3 space-y-1.5 text-sm text-ink/85"><li class="flex gap-2"><span class="text-primary" aria-hidden="true">•</span>Coffee</li><li class="flex gap-2"><span class="text-primary" aria-hidden="true">•</span>Mazapan</li><li class="flex gap-2"><span class="text-primary" aria-hidden="true">•</span>Oreo</li><li class="flex gap-2"><span class="text-primary" aria-hidden="true">•</span>Cookie dough</li><li class="flex gap-2"><span class="text-primary" aria-hidden="true">•</span>Nutter Butter</li><li class="flex gap-2"><span class="text-primary" aria-hidden="true">•</span>Pecans</li><li class="flex gap-2"><span class="text-primary" aria-hidden="true">•</span>Walnuts</li><li class="flex gap-2"><span class="text-primary" aria-hidden="true">•</span>Almonds</li><li class="flex gap-2"><span class="text-primary" aria-hidden="true">•</span>Reese’s</li><li class="flex gap-2"><span class="text-primary" aria-hidden="true">•</span>Sprinkles</li><li class="flex gap-2"><span class="text-primary" aria-hidden="true">•</span>Pretzels</li><li class="flex gap-2"><span class="text-primary" aria-hidden="true">•</span>Graham cracker</li></ul></div><div><h4 class="border-b-2 border-primary pb-2 font-display text-sm font-bold uppercase tracking-widest text-ink">Stick ’Ems</h4><ul class="mt-3 space-y-1.5 text-sm text-ink/85"><li class="flex gap-2"><span class="text-primary" aria-hidden="true">•</span>Oreo</li><li class="flex gap-2"><span class="text-primary" aria-hidden="true">•</span>Nutter Butter</li><li class="flex gap-2"><span class="text-primary" aria-hidden="true">•</span>Pretzel rod</li><li class="flex gap-2"><span class="text-primary" aria-hidden="true">•</span>Reese’s</li><li class="flex gap-2"><span class="text-primary" aria-hidden="true">•</span>Graham cracker</li><li class="flex gap-2"><span class="text-primary" aria-hidden="true">•</span>KitKat</li><li class="flex gap-2"><span class="text-primary" aria-hidden="true">•</span>Nilla Wafers</li></ul></div><div><h4 class="border-b-2 border-primary pb-2 font-display text-sm font-bold uppercase tracking-widest text-ink">Drizzles</h4><ul class="mt-3 space-y-1.5 text-sm text-ink/85"><li class="flex gap-2"><span class="text-primary" aria-hidden="true">•</span>Chocolate</li><li class="flex gap-2"><span class="text-primary" aria-hidden="true">•</span>Strawberry</li><li class="flex gap-2"><span class="text-primary" aria-hidden="true">•</span>Salted caramel</li><li class="flex gap-2"><span class="text-primary" aria-hidden="true">•</span>Caramel</li></ul></div></div></div></div></section><section id="schedule" class="scroll-mt-20 border-b border-ink/10 bg-surface px-5 py-16 sm:py-24 lg:px-8"><div class="mx-auto max-w-3xl text-center"><p class="font-display text-xs font-semibold uppercase tracking-[0.35em] text-ink">Find us</p><h2 class="mt-3 font-display text-3xl font-bold uppercase tracking-tight text-ink sm:text-4xl">This week's stops</h2><p class="mt-4 text-ink/75">Schedules change with weather and events—follow <a href="https://www.instagram.com/conenswirl/" target="_blank" rel="noopener noreferrer" class="font-semibold text-primary underline-offset-4 hover:underline">@conenswirl</a> for rain dates, pop-ups, and this week's stops.</p></div><div class="mx-auto mt-12 grid max-w-5xl grid-cols-1 items-center gap-8 lg:grid-cols-2 lg:gap-12"><div class="flex w-full justify-center"><div class="w-full max-w-xl overflow-hidden rounded-lg border border-ink/15 lg:max-w-none"><img src="./images/food-truck-serving.jpg" alt="CONE N&#39; SWIRL food truck serving at the window" class="aspect-[4/3] w-full object-cover" loading="lazy" decoding="async" width="800" height="600"></div></div><div class="overflow-hidden border border-ink/15"><table class="w-full text-left text-sm"><thead><tr class="border-b border-ink/15 bg-ink/5"><th class="px-4 py-3 font-display text-xs font-semibold uppercase tracking-wider text-ink sm:px-5">Day</th><th class="px-4 py-3 font-display text-xs font-semibold uppercase tracking-wider text-ink sm:px-5">Location</th><th class="hidden px-4 py-3 font-display text-xs font-semibold uppercase tracking-wider text-ink sm:table-cell sm:px-5">Hours</th></tr></thead><tbody><tr class="border-b border-ink/10 last:border-0"><td class="px-4 py-4 font-semibold text-primary sm:px-5">Tue</td><td class="px-4 py-4 text-ink sm:px-5">Copper Canyon<span class="mt-1 block text-ink/60 sm:hidden">5pm – 8pm</span></td><td class="hidden px-4 py-4 text-ink/70 sm:table-cell sm:px-5">5pm – 8pm</td></tr><tr class="border-b border-ink/10 last:border-0"><td class="px-4 py-4 font-semibold text-primary sm:px-5">Wed</td><td class="px-4 py-4 text-ink sm:px-5">Ranches at Creekside<span class="mt-1 block text-ink/60 sm:hidden">5pm – 8pm</span></td><td class="hidden px-4 py-4 text-ink/70 sm:table-cell sm:px-5">5pm – 8pm</td></tr><tr class="border-b border-ink/10 last:border-0"><td class="px-4 py-4 font-semibold text-primary sm:px-5">Thu</td><td class="px-4 py-4 text-ink sm:px-5">Whisper Falls<span class="mt-1 block text-ink/60 sm:hidden">5pm – 8pm</span></td><td class="hidden px-4 py-4 text-ink/70 sm:table-cell sm:px-5">5pm – 8pm</td></tr><tr class="border-b border-ink/10 last:border-0"><td class="px-4 py-4 font-semibold text-primary sm:px-5">Fri</td><td class="px-4 py-4 text-ink sm:px-5">Langdon Community<span class="mt-1 block text-ink/60 sm:hidden">5pm – 8pm</span></td><td class="hidden px-4 py-4 text-ink/70 sm:table-cell sm:px-5">5pm – 8pm</td></tr><tr class="border-b border-ink/10 last:border-0"><td class="px-4 py-4 font-semibold text-primary sm:px-5">Sat</td><td class="px-4 py-4 text-ink sm:px-5">Canyon Crest<span class="mt-1 block text-ink/60 sm:hidden">5pm – 8pm</span></td><td class="hidden px-4 py-4 text-ink/70 sm:table-cell sm:px-5">5pm – 8pm</td></tr></tbody></table></div></div></section><section class="border-b border-ink/10 bg-surface"><div id="gallery" class="scroll-mt-20 px-5 py-16 sm:py-20 lg:px-8"><div class="mx-auto max-w-5xl"><h2 class="text-center font-display text-3xl font-bold uppercase tracking-tight text-ink sm:text-4xl">Gallery</h2><p class="mx-auto mt-4 max-w-xl text-center text-ink/75">Fresh photos live on <a href="https://www.instagram.com/conenswirl/" target="_blank" rel="noopener noreferrer" class="font-semibold text-primary underline-offset-4 hover:underline">@conenswirl</a>—follow for pop-ups, specials, and behind the window.</p><div class="gallery-grid mt-10 grid grid-cols-2 gap-2 sm:grid-cols-3 sm:gap-3 md:gap-4"><div class="overflow-hidden rounded-lg border border-ink/15 bg-surface"><img src="./images/plain.png" alt="Plain cone with soft serve" class="w-full h-auto" loading="lazy" decoding="async"></div><div class="overflow-hidden rounded-lg border border-ink/15 bg-surface"><img src="./images/oreocone.png" alt="Oreo cone with ice cream" class="w-full h-auto" loading="lazy" decoding="async"></div><div class="overflow-hidden rounded-lg border border-ink/15 bg-surface"><img src="./images/purpletop.png?v=2" alt="Purple topped soft serve cone" class="w-full h-auto" loading="lazy" decoding="async"></div><div class="overflow-hidden rounded-lg border border-ink/15 bg-surface"><img src="./images/stickems.png" alt="Soft serve with Stick ’Ems" class="w-full h-auto" loading="lazy" decoding="async"></div><div class="overflow-hidden rounded-lg border border-ink/15 bg-surface"><img src="./images/pinktop.png" alt="Pink topped soft serve cone" class="w-full h-auto" loading="lazy" decoding="async"></div><div class="overflow-hidden rounded-lg border border-ink/15 bg-surface"><img src="./images/yellowtop.png" alt="Yellow topped soft serve cone" class="w-full h-auto" loading="lazy" decoding="async"></div></div></div></div></section><section id="contact" class="scroll-mt-20 border-t border-ink/10 bg-primary px-5 py-16 sm:py-24 lg:px-8"><div class="mx-auto max-w-5xl"><div class="grid gap-12 lg:grid-cols-2 lg:gap-16 lg:items-start"><div class="mx-auto max-w-xl text-center lg:mx-0 lg:text-left"><h2 class="font-display text-3xl font-bold uppercase tracking-tight text-surface sm:text-4xl">Catering &amp; events</h2><p class="mt-6 text-lg leading-relaxed text-ink sm:text-xl">Want to sweeten your event? Book the truck for birthdays, office treats, and weddings—we bring the swirl, toppings, and smiles. Tell us your head count and we'll handle the rest.</p><a href="mailto:conenswirl@gmail.com?subject=Catering%20%26%20events%20quote" class="mt-8 inline-flex border-2 border-ink bg-ink px-8 py-3 text-xs font-bold uppercase tracking-widest text-surface transition hover:bg-surface hover:text-ink">Request a quote</a></div><div class="rounded-lg border border-ink/15 bg-surface p-6 sm:p-8 lg:p-10"><div class="text-center lg:text-left"><p class="font-display text-xs font-semibold uppercase tracking-[0.35em] text-ink">Contact</p><h2 class="mt-3 font-display text-3xl font-bold uppercase tracking-tight text-ink sm:text-4xl">Get in touch</h2><p class="mt-4 text-ink/75">Questions about the truck, pricing, or a date? Send a note—we usually reply within two business days. For same-day locations and specials, check <a href="https://www.instagram.com/conenswirl/" target="_blank" rel="noopener noreferrer" class="font-semibold text-primary underline-offset-4 hover:underline">@conenswirl</a> on Instagram.</p></div><dl class="mt-10 space-y-6 text-sm"><div><dt class="font-display text-xs font-semibold uppercase tracking-widest text-ink">Email</dt><dd class="mt-2"><a href="mailto:conenswirl@gmail.com" class="font-semibold text-primary underline-offset-4 hover:underline">conenswirl@gmail.com</a></dd></div><div><dt class="font-display text-xs font-semibold uppercase tracking-widest text-ink">Phone</dt><dd class="mt-2"><a href="tel:+19562860601" class="font-semibold text-primary underline-offset-4 hover:underline">(956) 286-0601</a></dd></div><div><dt class="font-display text-xs font-semibold uppercase tracking-widest text-ink">Instagram</dt><dd class="mt-2"><a href="https://www.instagram.com/conenswirl/" target="_blank" rel="noopener noreferrer" class="font-semibold text-primary underline-offset-4 hover:underline">@conenswirl</a><p class="mt-1 text-ink/70">Daily stops, menu updates, and behind-the-window content.</p></dd></div></dl></div></div></div></section></main><footer class="border-t border-ink/10 bg-ink py-10 text-surface"><div class="mx-auto flex max-w-5xl flex-col gap-6 px-5 sm:flex-row sm:items-center sm:justify-between lg:px-8"><div><p class="font-display text-lg font-semibold uppercase tracking-wide">CONE N' SWIRL</p><p class="mt-1 text-sm text-surface/65">© 2026 CONE N' SWIRL. All rights reserved.</p></div><div class="flex flex-wrap items-center gap-6 text-sm font-semibold uppercase tracking-wide text-surface/80"><a href="#menu" class="hover:text-surface">Menu</a><a href="#schedule" class="hover:text-surface">Find us</a><a href="#gallery" class="hover:text-surface">Gallery</a><a href="#contact" class="hover:text-surface">Contact</a><a href="https://www.instagram.com/conenswirl/" target="_blank" rel="noopener noreferrer" class="inline-flex items-center gap-2 hover:text-surface" aria-label="CONE N&#39; SWIRL on Instagram"><svg class="h-5 w-5" viewBox="0 0 24 24" aria-hidden="true" fill="currentColor"><path d="M12 2.163c3.204 0 3.584.012 4.85.07 1.252.058 2.083.242 2.633.516a5.275 5.275 0 011.92 1.247 5.25 5.25 0 011.247 1.92c.274.55.458 1.38.516 2.633.058 1.266.07 1.646.07 4.85s-.012 3.584-.07 4.85c-.058 1.252-.242 2.083-.516 2.633a5.275 5.275 0 01-1.247 1.92 5.25 5.25 0 01-1.92 1.247c-.55.274-1.38.458-2.633.516-1.266.058-1.646.07-4.85.07s-3.584-.012-4.85-.07c-1.252-.058-2.083-.242-2.633-.516a5.275 5.275 0 01-1.92-1.247 5.25 5.25 0 01-1.247-1.92c-.274-.55-.458-1.38-.516-2.633-.058-1.266-.07-1.646-.07-4.85s.012-3.584.07-4.85c.058-1.252.242-2.083.516-2.633a5.275 5.275 0 011.247-1.92 5.25 5.25 0 011.92-1.247c.55-.274 1.38-.458 2.633-.516 1.266-.058 1.646-.07 4.85-.07zM12 5.838a6.162 6.162 0 100 12.324A6.162 6.162 0 0012 5.838zm0 10a4 4 0 110-8 4 4 0 010 8zm6.406-11.845a1.44 1.44 0 100 2.881 1.44 1.44 0 000-2.881z"></path></svg>Instagram</a></div></div></footer></div></div>
   
 
 </body></html>
